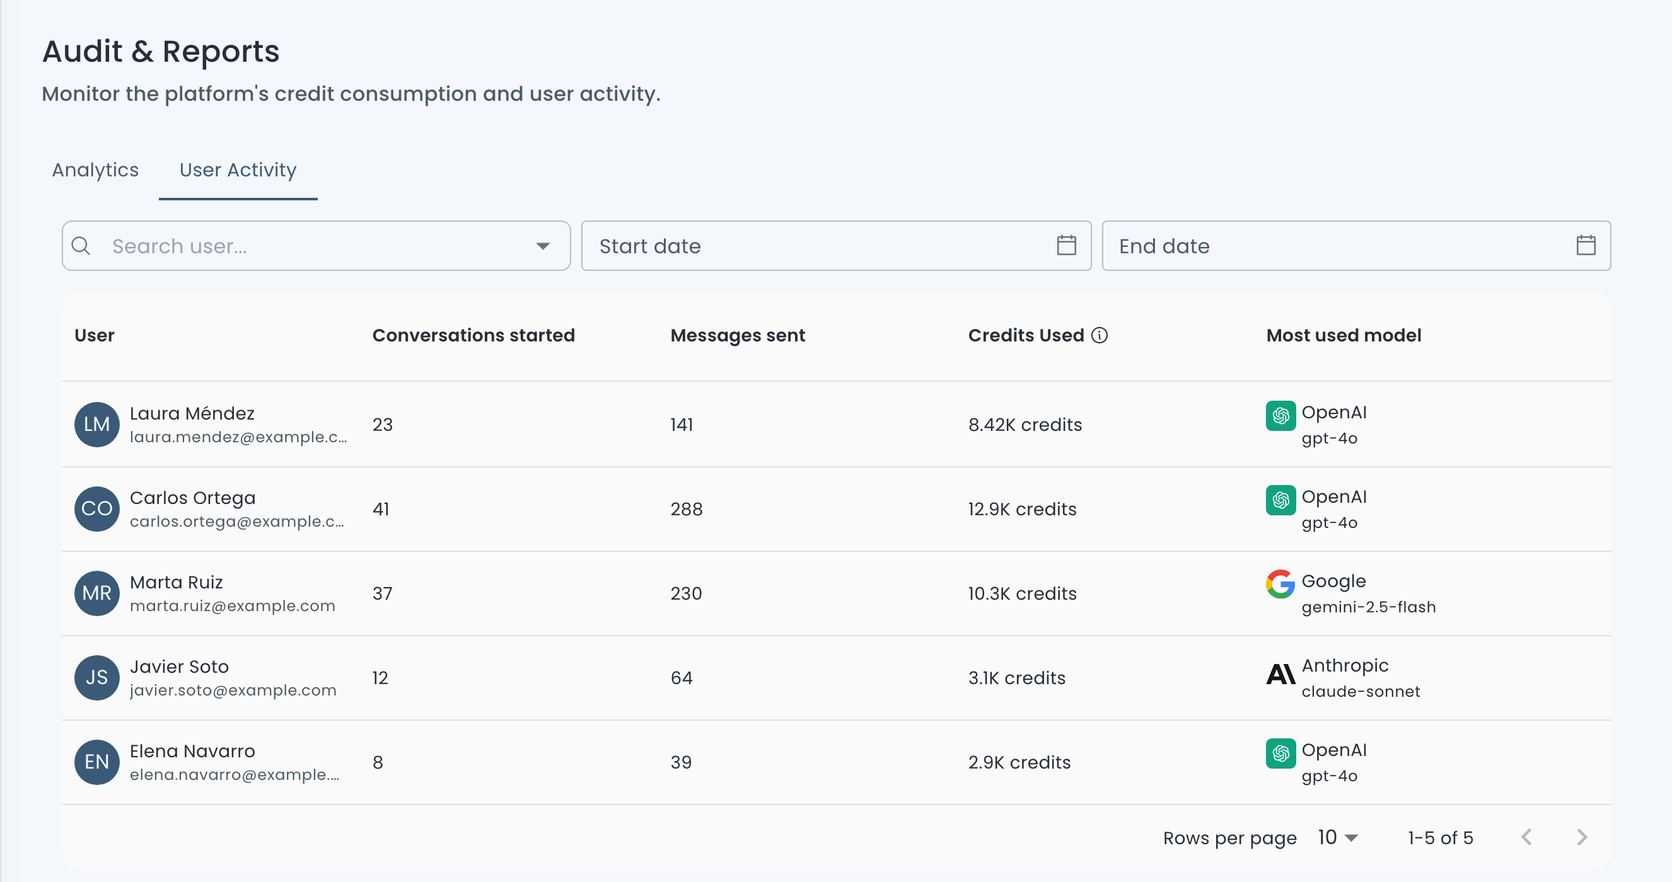
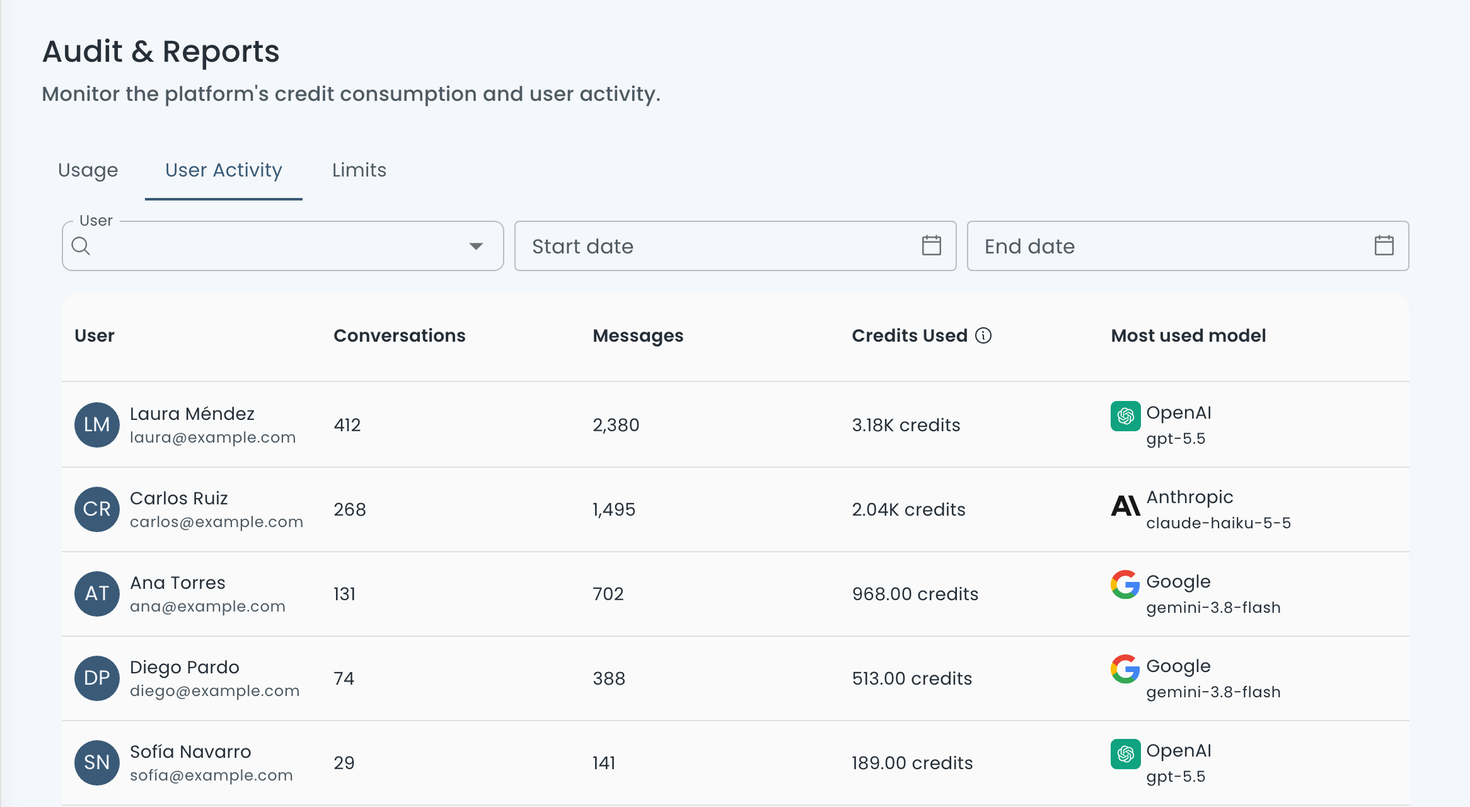
docs: actualiza Auditoría y Reportes y la captura del catálogo
- Auditoría y Reportes: pestañas Consumo, Actividad de usuarios y Límites;
  saldo de la organización, mi consumo, historial con rangos rápidos y
  agrupación automática, distribución por proveedor y por operación, y la
  pestaña Límites con su resumen, estados, filtros y orden.
- Enlaces a la pestaña Límites desde Créditos y límites, Suscripción y
  Problemas frecuentes.
- Capturas nuevas de las tres pestañas y del Catálogo de integraciones con
  la pestaña Agentes, en los dos idiomas.

diff --git a/docs/control/auditoria-y-reportes.md b/docs/control/auditoria-y-reportes.md
@@ -3,57 +3,54 @@ id: auditoria-y-reportes
 title: Auditoría y Reportes
 sidebar_label: Auditoría y Reportes
 sidebar_position: 1
-description: El consumo de créditos de la organización en ConsulPoint, los límites de la suscripción, el historial por proveedor y operación, y la actividad de cada usuario.
+description: El consumo de créditos de la organización en ConsulPoint, su evolución y distribución por proveedor y operación, la actividad de cada usuario y los límites de la suscripción.
 ---
 
 # Auditoría y Reportes
 
 <PageMeta route="/consumption">permiso sobre **Auditoría y reportes**; con los roles predeterminados, solo administradores</PageMeta>
 
-**Auditoría y Reportes** muestra cuántos créditos usa la organización, en qué se van, cuánto queda de cada límite de la suscripción y la actividad de cada persona. Tiene dos pestañas: **Estadísticas** y **Actividad de Usuarios**.
+**Auditoría y Reportes** muestra cuántos créditos usa la organización, en qué se van, la actividad de cada persona y cuánto queda de cada límite de la suscripción. Tiene tres pestañas:
 
-Quien tiene acceso ve los datos de **toda la organización**, salvo su tarjeta de consumo, que es personal.
+| Pestaña | Ruta | Contenido |
+|---|---|---|
+| **Consumo** | `/consumption/reports` | El saldo de la organización, el consumo propio y el historial |
+| **Actividad de usuarios** | `/consumption/user-activity` | La actividad y el consumo de cada persona |
+| **Límites** | `/consumption/limits` | El uso de cada recurso frente al máximo de la suscripción |
 
-## Estadísticas
+Quien tiene acceso ve los datos de **toda la organización**, salvo **Mi consumo**, que es personal.
 
-<Screenshot src="/img/control/auditoria-estadisticas.png" alt="Pestaña Estadísticas de Auditoría y Reportes" caption="Auditoría y Reportes → Estadísticas (datos de ejemplo)" />
+## Consumo
 
-### Créditos de la organización
+<Screenshot src="/img/control/auditoria-estadisticas.png" alt="Pestaña Consumo de Auditoría y Reportes" caption="Auditoría y Reportes → Consumo (datos de ejemplo)" />
 
-| Tarjeta | Qué muestra |
+### Saldo de la organización
+
+| Dato | Qué muestra |
 |---|---|
-| **Créditos disponibles de la organización** | Los créditos que le quedan a toda la organización |
-| **Créditos usados por la organización** | Los créditos ya usados del saldo activo |
-| **Porcentaje usado por la organización** | Qué parte del saldo activo se ha usado |
+| **Saldo disponible** | Los créditos que le quedan a toda la organización |
+| **Créditos usados** | Los créditos ya usados del saldo activo |
+| **Porcentaje del saldo usado** | Qué parte del saldo activo se ha usado |
 
 El saldo activo es la suma de los [bonos de crédito](/organizacion/suscripcion#bonos-de-crédito) vigentes.
 
-### Consumo del Usuario
+### Mi consumo
 
-El resumen personal del mes en curso de quien mira la pantalla: los **Créditos usados este mes**, sus conversaciones y sus mensajes enviados.
-
-### Límites de tu suscripción
-
-El uso actual de cada recurso frente al máximo de la suscripción, con una barra que se pone **naranja** al acercarse al límite y **roja** al alcanzarlo. Los recursos sin máximo aparecen como **Sin límite**.
-
-Algunos límites cuentan solo lo de quien mira, no lo de toda la organización:
-
-| Recurso | Qué cuenta |
-|---|---|
-| **Conversaciones**, **Almacenamiento**, **Carpetas** | Solo las tuyas |
-| **Contactos** | Todos, también los inactivos: solo eliminarlos libera espacio |
-| **Integraciones** | Un único máximo para todas juntas |
-| **Conectores** | Cada conector instalado, aunque lo usen varios agentes |
-
-Qué pasa al llegar a un límite se explica en [Créditos y límites](/organizacion/creditos-y-limites#límites-del-plan).
+El resumen del mes en curso de quien mira la pantalla: sus **Créditos usados**, sus conversaciones y sus mensajes enviados.
 
 ### Historial
 
-Cuántos créditos usa la organización, entre la **Fecha inicio** y la **Fecha fin** elegidas (por defecto, el mes en curso) y con **Agrupación** **Diario**, **Semanal** o **Mensual**:
+**Evolución del consumo** muestra cuántos créditos usa la organización en un período: por defecto, el mes en curso.
 
-- **Créditos por período**: la evolución del consumo.
-- **Por proveedor**: el reparto entre proveedores de IA; al pasar el ratón, el detalle por modelo.
-- **Por operación**: el reparto por tipo de uso:
+- **Rangos rápidos**: **7 días**, **30 días**, **90 días** o **12 meses**. También se puede elegir **Fecha inicio** y **Fecha fin**.
+- **Agrupación**: **Diario**, **Semanal** o **Mensual**. Con **Automática según el período**, se agrupa por día hasta 31 días, por semana hasta 93 y por mes a partir de ahí.
+
+Encima del gráfico aparecen los **Créditos usados en el período** y el **Máximo del período**, con su fecha.
+
+**Distribución del consumo** reparte esos créditos:
+
+- **Por proveedor**: entre los proveedores de IA, con el detalle por modelo.
+- **Por operación**: por tipo de uso.
 
 | Categoría | Incluye |
 |---|---|
@@ -61,18 +58,47 @@ Cuántos créditos usa la organización, entre la **Fecha inicio** y la **Fecha 
 | **Análisis de supervisión** | Los análisis de conversaciones con IA |
 | **Traducción** | Traducciones de mensajes |
 | **Generación de agentes** | El contenido que se genera con IA al crear agentes |
-| **Microagentes** | Extracción de documentos y correos, OCR y preparación de archivos para los agentes |
+| **Microagentes** | Extracción de documentos y correos, y OCR |
+| **Documentos** | La conversión de documentos y su preparación para que los agentes los consulten |
 | **Multimedia** | Imágenes generadas, texto a voz, voz a texto y transcripción de vídeo |
 | **Web** | Búsquedas y lectura de páginas web |
 | **Otros** | El resto |
 
-## Actividad de Usuarios
+Las categorías con menos peso se agrupan; **Ver … más** las muestra.
 
-<Screenshot src="/img/control/auditoria-actividad.png" alt="Pestaña Actividad de Usuarios" caption="Auditoría y Reportes → Actividad de Usuarios (datos de ejemplo)" />
+## Actividad de usuarios
 
-Una fila por persona, con sus **Conversaciones iniciadas**, **Mensajes enviados**, **Créditos Usados** y su **Modelo más usado**. Los créditos incluyen todo su consumo, no solo el de las conversaciones (también análisis, audio y herramientas).
+<Screenshot src="/img/control/auditoria-actividad.png" alt="Pestaña Actividad de usuarios" caption="Auditoría y Reportes → Actividad de usuarios (datos de ejemplo)" />
 
-Se puede buscar una persona y acotar por fechas; sin fechas, muestra todo el histórico.
+Una fila por persona, con sus **Conversaciones**, **Mensajes**, **Créditos Usados** y su **Modelo más usado**. Los créditos incluyen todo su consumo, no solo el de las conversaciones (también análisis, audio y herramientas).
+
+Se puede buscar una persona y acotar por fechas; sin fechas, muestra todo el histórico. **Quitar filtros** vuelve a mostrar todo.
+
+## Límites
+
+<Screenshot src="/img/control/auditoria-limites.png" alt="Pestaña Límites de Auditoría y Reportes" caption="Auditoría y Reportes → Límites (datos de ejemplo)" />
+
+El uso de cada recurso frente al máximo de la suscripción. Arriba, un resumen con cuántos recursos tienen el **Límite superado**, cuántos no tienen límite y cuántos tipos de recursos hay.
+
+Los recursos se ordenan en dos grupos: **Recursos que requieren atención** (cerca del límite, en el límite o por encima) y **Otros recursos**. Se pueden filtrar por **Estado** (**Límite superado**, **Con cupo disponible**, **Requieren atención**, **Ilimitado**) y ordenar por **Mayor uso primero** o por **Nombre (A–Z)**.
+
+| Estado | Significa |
+|---|---|
+| **Cerca del límite** | Queda poco cupo |
+| **Límite alcanzado** | Se llegó al máximo: no se pueden crear más |
+| **Límite superado** | El uso actual supera el máximo, por ejemplo después de pasar a una suscripción menor |
+| **Ilimitado** | El recurso no tiene tope |
+
+Algunos límites cuentan solo lo de quien mira, no lo de toda la organización. Se marcan como **Uso personal**:
+
+| Recurso | Qué cuenta |
+|---|---|
+| **Conversaciones**, **Almacenamiento**, **Carpetas** | Solo las de quien mira |
+| **Contactos** | Todos, también los inactivos: solo eliminarlos libera espacio |
+| **Integraciones** | Un único máximo para todas juntas |
+| **Conectores** | Cada conector instalado, aunque lo usen varios agentes |
+
+Qué pasa al llegar a un límite se explica en [Créditos y límites](/organizacion/creditos-y-limites#límites-del-plan).
 
 :::note Qué no incluye
 Este módulo muestra consumo y actividad agregada. No es un registro de acciones (quién creó, modificó o eliminó qué) ni permite exportar los datos.

diff --git a/i18n/en/docusaurus-plugin-content-docs/current/control/auditoria-y-reportes.md b/i18n/en/docusaurus-plugin-content-docs/current/control/auditoria-y-reportes.md
@@ -3,77 +3,103 @@ id: auditoria-y-reportes
 title: Audit & Reports
 sidebar_label: Audit & Reports
 sidebar_position: 1
-description: Your organization's credit usage in ConsulPoint, subscription limits, history by provider and operation, and each user's activity.
+description: Your organization's credit usage in ConsulPoint, how it evolves and splits by provider and operation, each user's activity and the subscription limits.
 ---
 
 # Audit & Reports
 
 <PageMeta route="/consumption">permission on **Audit & Reports**; with the default roles, only administrators</PageMeta>
 
-**Audit & Reports** shows how many credits your organization uses, what they go on, how much is left of each subscription limit and each person's activity. It has two tabs: **Analytics** and **User Activity**.
+**Audit & Reports** shows how many credits your organization uses, what they go on, each person's activity and how much is left of each subscription limit. It has three tabs:
 
-Anyone with access sees the data for the **whole organization**, except their usage card, which is personal.
+| Tab | Path | Contents |
+|---|---|---|
+| **Usage** | `/consumption/reports` | The organization's balance, your own usage and the history |
+| **User Activity** | `/consumption/user-activity` | Each person's activity and usage |
+| **Limits** | `/consumption/limits` | Each resource's usage against the subscription maximum |
 
-## Analytics {#estadísticas}
+Anyone with access sees the data for the **whole organization**, except **My usage**, which is personal.
 
-<Screenshot src="/img/en/control/auditoria-estadisticas.png" alt="Analytics tab in Audit & Reports" caption="Audit & Reports → Analytics (sample data)" />
+## Usage {#consumo}
 
-### Organization credits {#créditos-de-la-organización}
+<Screenshot src="/img/en/control/auditoria-estadisticas.png" alt="Usage tab in Audit & Reports" caption="Audit & Reports → Usage (sample data)" />
 
-| Card | What it shows |
+### Organization balance {#saldo-de-la-organización}
+
+| Figure | What it shows |
 |---|---|
-| **Organization available credits** | The credits the whole organization has left |
-| **Credits used by the organization** | The credits already used from the active balance |
-| **Percentage used by the organization** | How much of the active balance has been used |
+| **Available balance** | The credits the whole organization has left |
+| **Credits used** | The credits already used from the active balance |
+| **Share of balance used** | How much of the active balance has been used |
 
-The active balance is the sum of the current [credit vouchers](/organizacion/suscripcion#bonos-de-crédito).
+The active balance is the sum of the [credit vouchers](/organizacion/suscripcion#bonos-de-crédito) in force.
 
-### User Consumption {#consumo-del-usuario}
+### My usage {#mi-consumo}
 
-The personal summary for the current month of whoever is viewing the screen: the **Credits used this month**, their conversations and their messages sent.
+The current month's summary for whoever is viewing the screen: their **Credits used**, their conversations and their sent messages.
 
-### Your subscription limits {#límites-de-tu-suscripción}
+### History {#historial}
 
-The current usage of each resource against the subscription maximum, with a bar that turns **orange** as it approaches the limit and **red** when it reaches it. Resources without a maximum appear as **No limit**.
+**Usage over time** shows how many credits the organization uses in a period: by default, the current month.
 
-Some limits only count what belongs to the viewer, not to the whole organization:
+- **Quick date ranges**: **7 days**, **30 days**, **90 days** or **12 months**. You can also pick a **Start date** and an **End date**.
+- **Group by**: **Daily**, **Weekly** or **Monthly**. With **Automatic by date range**, it groups by day up to 31 days, by week up to 93 and by month beyond that.
+
+Above the chart you see the **Credits used in this period** and the **Period peak**, with its date.
+
+**Usage breakdown** splits those credits:
+
+- **By provider**: across AI providers, with the detail per model.
+- **By operation**: by type of use.
+
+| Category | Includes |
+|---|---|
+| **Conversations** | Agents' answers |
+| **Supervision analysis** | AI analyses of conversations |
+| **Translation** | Message translations |
+| **Agent generation** | Content generated with AI when creating agents |
+| **Microagents** | Document and email extraction, and OCR |
+| **Documents** | Document conversion and preparing them so agents can look them up |
+| **Multimedia** | Generated images, text to speech, speech to text and video transcription |
+| **Web** | Web searches and page reading |
+| **Other** | Everything else |
+
+Smaller categories are grouped; **Show … more** lists them.
+
+## User Activity {#actividad-de-usuarios}
+
+<Screenshot src="/img/en/control/auditoria-actividad.png" alt="User Activity tab" caption="Audit & Reports → User Activity (sample data)" />
+
+One row per person, with their **Conversations**, **Messages**, **Credits Used** and **Most used model**. Credits include all their usage, not just conversations (also analyses, audio and tools).
+
+You can search for a person and narrow by dates; with no dates, it shows the whole history. **Clear filters** shows everything again.
+
+## Limits {#límites}
+
+<Screenshot src="/img/en/control/auditoria-limites.png" alt="Limits tab in Audit & Reports" caption="Audit & Reports → Limits (sample data)" />
+
+Each resource's usage against the subscription maximum. At the top, a summary with how many resources are **Over the limit**, how many have **No limit** and how many **Resource types** there are.
+
+Resources are sorted into two groups: **Resources that need attention** (near, at or over the limit) and **Other resources**. You can filter by **Status** (**Limit exceeded**, **With quota remaining**, **Needs attention**, **Unlimited**) and sort by **Highest usage first** or **Name (A–Z)**.
+
+| State | Meaning |
+|---|---|
+| **Near limit** | Little quota is left |
+| **Limit reached** | The maximum has been reached: no more can be created |
+| **Limit exceeded** | Current usage is above the maximum, for example after moving to a smaller subscription |
+| **Unlimited** | The resource has no cap |
+
+Some limits only count what belongs to the viewer, not the whole organization. They're marked **Personal usage**:
 
 | Resource | What it counts |
 |---|---|
-| **Conversations**, **Storage**, **Folders** | Only yours |
+| **Conversations**, **Storage**, **Folders** | Only the viewer's |
 | **Contacts** | All of them, inactive ones too: only deleting them frees up space |
 | **Integrations** | A single maximum for all of them together |
 | **Connectors** | Each installed connector, even if several agents use it |
 
 What happens when you reach a limit is explained in [Credits and limits](/organizacion/creditos-y-limites#límites-del-plan).
 
-### History {#historial}
-
-How many credits the organization uses, between the chosen **Start date** and **End date** (by default, the current month) and with **Group by** set to **Daily**, **Weekly** or **Monthly**:
-
-- **Credits per period**: how usage evolves.
-- **By provider**: the split between AI providers; hover to see the detail by model.
-- **By operation**: the split by type of use:
-
-| Category | Includes |
-|---|---|
-| **Conversations** | The agents' responses |
-| **Supervision analysis** | AI analyses of conversations |
-| **Translation** | Message translations |
-| **Agent generation** | Content generated with AI when creating agents |
-| **Microagents** | Document and email extraction, OCR and file preparation for agents |
-| **Multimedia** | Generated images, text to speech, speech to text and video transcription |
-| **Web** | Web searches and page reading |
-| **Other** | Everything else |
-
-## User Activity {#actividad-de-usuarios}
-
-<Screenshot src="/img/en/control/auditoria-actividad.png" alt="User Activity tab" caption="Audit & Reports → User Activity (sample data)" />
-
-One row per person, with their **Conversations started**, **Messages sent**, **Credits Used** and their **Most used model**. Credits include all their usage, not only conversations (also analysis, audio and tools).
-
-You can search for a person and narrow down by dates; without dates, it shows the full history.
-
-:::note What it does not include
-This module shows usage and aggregated activity. It is not a log of actions (who created, changed or deleted what) and it does not let you export the data.
+:::note What it doesn't include
+This module shows usage and aggregated activity. It is not a log of actions (who created, changed or deleted what) and it doesn't let you export the data.
 :::

diff --git a/docs/control/configuracion/problemas-frecuentes.md b/docs/control/configuracion/problemas-frecuentes.md
@@ -43,7 +43,7 @@ Qué hacer ante los avisos y situaciones más habituales al administrar una orga
 | **Se necesita un plan activo**, botones de crear desactivados | La organización no tiene plan activo: la prueba terminó o la suscripción venció. Todo se puede consultar, nada se puede crear ni modificar. Solicitar un plan en [Suscripción](/organizacion/suscripcion). Ver [Sin plan activo](/organizacion/creditos-y-limites#sin-plan-activo) |
 | **Tu plan vence pronto** / **Plan vencido** | Renovar desde [Suscripción](/organizacion/suscripcion) antes de que termine el margen |
 | **Créditos agotados** | Hay un breve margen para recargar. Después, los agentes dejan de responder salvo los que usan un modelo propio. Ver [Sin créditos](/organizacion/creditos-y-limites#sin-créditos) |
-| **Llegaste al tope de tu plan** al crear algo | Se alcanzó el máximo de ese recurso. El uso de cada uno está en [Auditoría y Reportes](/control/auditoria-y-reportes#límites-de-tu-suscripción). Liberar espacio o solicitar un plan mayor |
+| **Llegaste al tope de tu plan** al crear algo | Se alcanzó el máximo de ese recurso. El uso de cada uno está en [Auditoría y Reportes](/control/auditoria-y-reportes#límites). Liberar espacio o solicitar un plan mayor |
 | No se libera espacio de contactos al desactivarlos | Los contactos inactivos también cuentan. Solo eliminarlos libera espacio |
 | **Ya tienes una solicitud pendiente…** | Cancelar la solicitud pendiente antes de pedir otra suscripción |
 | **Este código no es válido, ha caducado o ya no tiene usos disponibles.** | Revisar el código de descuento o solicitar el plan sin él |

diff --git a/i18n/en/docusaurus-plugin-content-docs/current/control/configuracion/problemas-frecuentes.md b/i18n/en/docusaurus-plugin-content-docs/current/control/configuracion/problemas-frecuentes.md
@@ -43,7 +43,7 @@ What to do about the most common warnings and situations when administering an o
 | **An active plan is required**, create buttons disabled | The organization has no active plan: the trial ended or the subscription expired. Everything can be viewed, nothing can be created or changed. Request a plan in [Subscription](/organizacion/suscripcion). See [No active plan](/organizacion/creditos-y-limites#sin-plan-activo) |
 | **Your plan expires soon** / **Plan expired** | Renew from [Subscription](/organizacion/suscripcion) before the grace period ends |
 | **Credits exhausted** | There is a short grace period to top up. After that, agents stop answering, except those that use an own model. See [No credits](/organizacion/creditos-y-limites#sin-créditos) |
-| **You've reached your plan's limit** when creating something | The maximum for that resource has been reached. The usage of each one is in [Audit & Reports](/control/auditoria-y-reportes#límites-de-tu-suscripción). Free up space or request a bigger plan |
+| **You've reached your plan's limit** when creating something | The maximum for that resource has been reached. The usage of each one is in [Audit & Reports](/control/auditoria-y-reportes#límites). Free up space or request a bigger plan |
 | Deactivating contacts does not free up space | Inactive contacts also count. Only deleting them frees up space |
 | **You already have a pending request…** | Cancel the pending request before requesting another subscription |
 | **This code is not valid, has expired, or has no uses left.** | Check the discount code or request the plan without it |

diff --git a/i18n/en/docusaurus-plugin-content-docs/current/organizacion/suscripcion.md b/i18n/en/docusaurus-plugin-content-docs/current/organizacion/suscripcion.md
@@ -32,7 +32,7 @@ It shows the current plan and its price, monthly or yearly. If a discount code w
 
 It also shows when the subscription renews. **View all** opens the details: the start and end of the period, the discount applied and, under **Includes**, the maximum for each resource in the plan (or **Unlimited**).
 
-Current usage against those maximums is shown in [Audit & Reports](/control/auditoria-y-reportes). What happens when you reach a maximum, or run out of credits, is explained in [Credits and limits](/organizacion/creditos-y-limites).
+Current usage against those maximums is shown in [Audit & Reports](/control/auditoria-y-reportes#límites). What happens when you reach a maximum, or run out of credits, is explained in [Credits and limits](/organizacion/creditos-y-limites).
 
 ### Credit vouchers {#bonos-de-crédito}
 

diff --git a/docs/organizacion/suscripcion.md b/docs/organizacion/suscripcion.md
@@ -32,7 +32,7 @@ Muestra el plan actual y su precio, mensual o anual. Si se aplicó un código de
 
 También indica cuándo se renueva la suscripción. **Ver todo** abre el detalle: el inicio y el fin del periodo, el descuento aplicado y, en **Incluye**, el máximo de cada recurso del plan (o **Ilimitado**).
 
-El uso actual frente a esos máximos se consulta en [Auditoría y Reportes](/control/auditoria-y-reportes). Qué pasa al llegar a un máximo, o al quedarse sin créditos, se explica en [Créditos y límites](/organizacion/creditos-y-limites).
+El uso actual frente a esos máximos se consulta en [Auditoría y Reportes](/control/auditoria-y-reportes#límites). Qué pasa al llegar a un máximo, o al quedarse sin créditos, se explica en [Créditos y límites](/organizacion/creditos-y-limites).
 
 ### Bonos de crédito
 

diff --git a/i18n/en/docusaurus-plugin-content-docs/current/organizacion/creditos-y-limites.md b/i18n/en/docusaurus-plugin-content-docs/current/organizacion/creditos-y-limites.md
@@ -52,7 +52,7 @@ Each plan sets a maximum for resources such as users, roles, agents, conversatio
 
 When you reach a maximum, only creating more is blocked; what already exists is kept. The platform shows **You've reached your plan's limit**, with the **Upgrade plan** option, which takes you to [Plans](/organizacion/suscripcion#planes). Before you reach it, administrators receive the **Limit almost reached** notice.
 
-You can see each resource's usage against its maximum in [Audit & Reports](/control/auditoria-y-reportes).
+You can see each resource's usage against its maximum in [Audit & Reports](/control/auditoria-y-reportes#límites).
 
 ### Own models {#modelos-propios}
 

diff --git a/docs/organizacion/creditos-y-limites.md b/docs/organizacion/creditos-y-limites.md
@@ -52,7 +52,7 @@ Cada plan fija un máximo para recursos como usuarios, roles, agentes, conversac
 
 Al llegar a un máximo solo se bloquea crear más; lo que ya existe se conserva. La plataforma muestra **Llegaste al tope de tu plan**, con la opción **Mejorar plan**, que lleva a [Planes](/organizacion/suscripcion#planes). Antes de llegar, los administradores reciben el aviso **Límite casi alcanzado**.
 
-El uso de cada recurso frente a su máximo se ve en [Auditoría y Reportes](/control/auditoria-y-reportes).
+El uso de cada recurso frente a su máximo se ve en [Auditoría y Reportes](/control/auditoria-y-reportes#límites).
 
 ### Modelos propios
 
